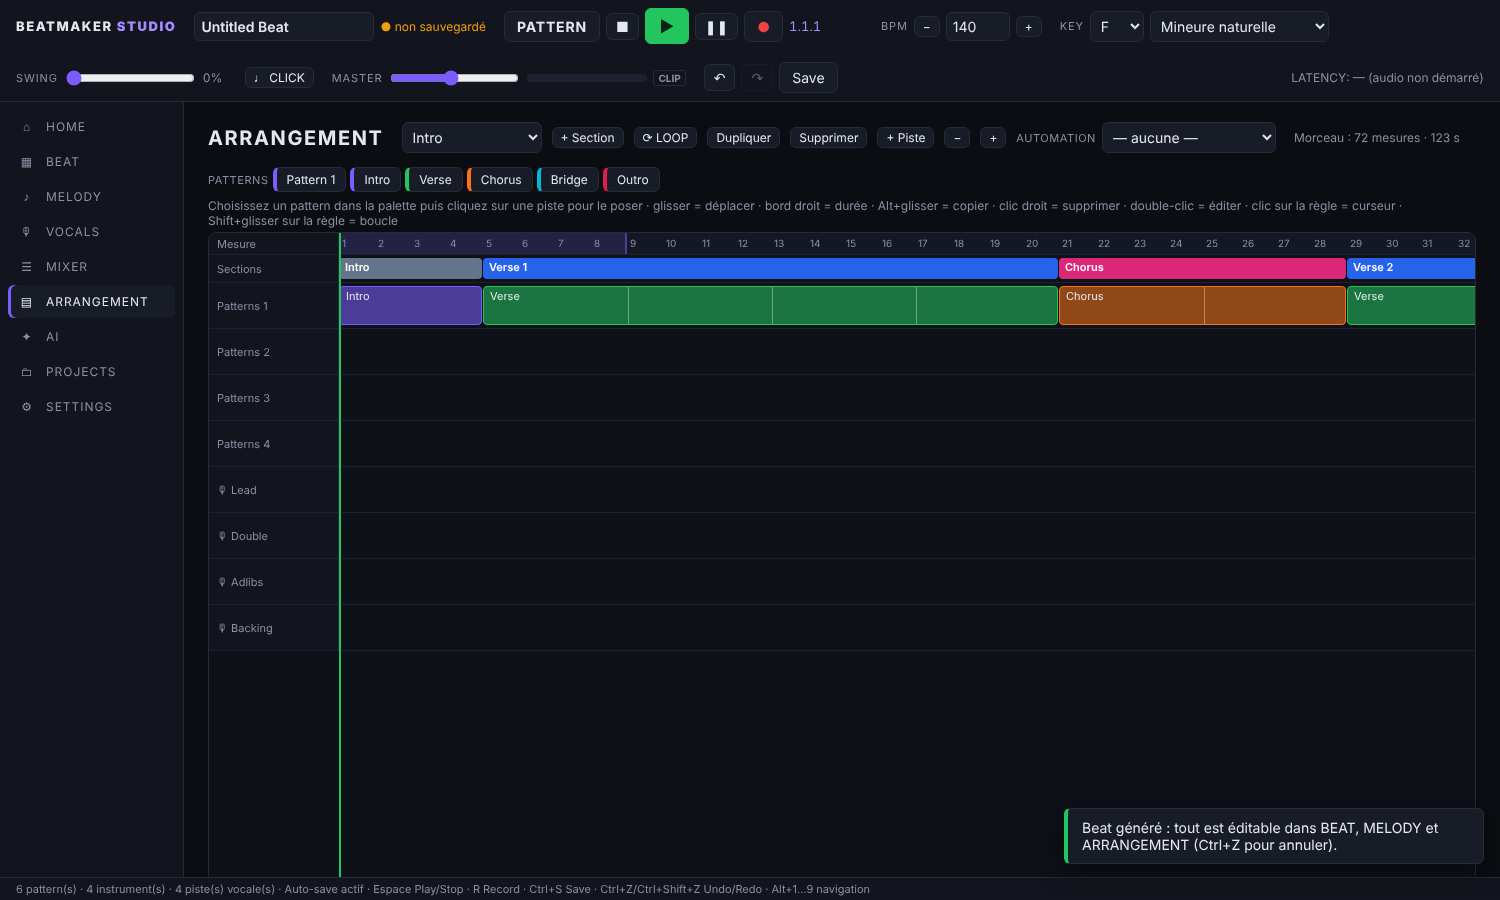
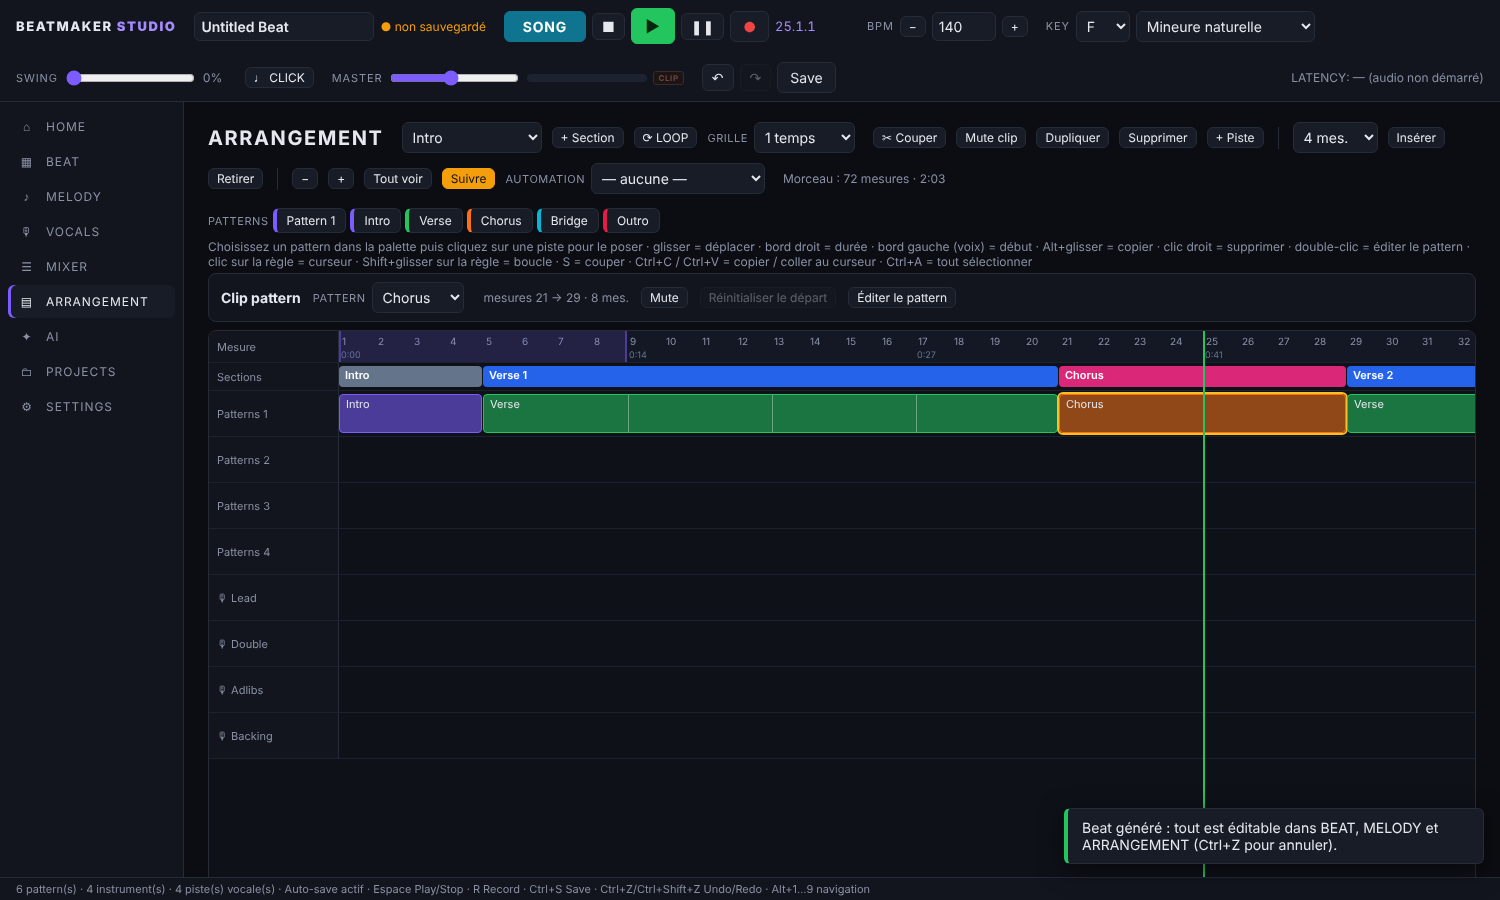
Beat lane tools (shift, copy/paste, reverse), export of the loop region, taller arrangement ruler with time; README/ARCHITECTURE updated, new screenshots
Claude-Session: https://claude.ai/code/session_014n7ftZ7mndBTveENmhuGmo

diff --git a/src/ui/views/beat.ts b/src/ui/views/beat.ts
@@ -3,9 +3,9 @@ import { GENRE_DEFAULTS, type Genre } from "../../core/ai/prompt.ts";
 import { instrumentDef, PITCH_RANGE, STEP_COUNTS, STEPS_PER_BEAT } from "../../core/constants.ts";
 import { currentPattern, getChannel } from "../../core/project.ts";
 import type { Action } from "../../core/reducer.ts";
-import type { Project, StepCount, Track } from "../../core/types.ts";
+import type { Project, Step, StepCount, Track } from "../../core/types.ts";
 import type { App, View } from "../app.ts";
-import { confirmDialog, h } from "../dom.ts";
+import { confirmDialog, h, toast } from "../dom.ts";
 import { patternBar } from "./patternBar.ts";
 import { DEFAULT_SAMPLE_EDIT } from "../../core/project.ts";
 import { drawWaveform, fmtDb, reactive, slider } from "../widgets.ts";
@@ -42,6 +42,44 @@ export function createBeatView(app: App): View {
     app.dispatch({ type: "batch", actions });
   };
 
+  let laneClipboard: Step[] | null = null;
+  const selTrack = (): Track | null => {
+    const p = store.getState();
+    const t = p.tracks.find((x) => x.id === app.selectedTrackId);
+    if (!t) toast("Sélectionnez d'abord une piste (clic sur son nom).", "error");
+    return t ?? null;
+  };
+  const laneSteps = (t: Track) => currentPattern(store.getState()).drums[t.id] ?? [];
+  const shiftLane = (d: number) => {
+    const t = selTrack();
+    if (!t) return;
+    const st = laneSteps(t);
+    const n = st.length;
+    app.dispatch({ type: "setDrumSteps", trackId: t.id, steps: st.map((_, i) => ({ ...st[(i - d + n) % n] })) }, `shift:${t.id}`);
+  };
+  const selName = h("span", { class: "hint" });
+  const laneTools = h("div", { class: "toolbar lane-tools" },
+    h("span", { class: "slider-label" }, "PISTE"), selName,
+    h("button", { class: "btn btn-sm", title: "Décaler la piste d'un step vers la gauche (rotation)", onclick: () => shiftLane(-1) }, "◀ Décaler"),
+    h("button", { class: "btn btn-sm", title: "Décaler la piste d'un step vers la droite (rotation)", onclick: () => shiftLane(1) }, "Décaler ▶"),
+    h("button", { class: "btn btn-sm", title: "Copier les steps de la piste", onclick: () => {
+      const t = selTrack();
+      if (!t) return;
+      laneClipboard = laneSteps(t).map((x) => ({ ...x }));
+      toast(`Piste « ${t.name} » copiée — collez-la sur une autre piste ou un autre pattern.`, "info");
+    } }, "Copier"),
+    h("button", { class: "btn btn-sm", title: "Coller les steps copiés sur la piste sélectionnée", onclick: () => {
+      const t = selTrack();
+      if (!t || !laneClipboard) return;
+      const n = currentPattern(store.getState()).stepCount;
+      app.dispatch({ type: "setDrumSteps", trackId: t.id, steps: Array.from({ length: n }, (_, i) => ({ ...laneClipboard![i % laneClipboard!.length] })) });
+    } }, "Coller"),
+    h("button", { class: "btn btn-sm", title: "Inverser la piste (de la fin vers le début)", onclick: () => {
+      const t = selTrack();
+      if (t) app.dispatch({ type: "setDrumSteps", trackId: t.id, steps: laneSteps(t).slice().reverse().map((x) => ({ ...x })) });
+    } }, "Inverser"),
+  );
+
   const toolbar = h("div", { class: "toolbar" },
     h("h1", {}, "BEAT"),
     stepsSelect,
@@ -59,7 +97,7 @@ export function createBeatView(app: App): View {
   const pbar = patternBar(app);
   const grid = h("div", { class: "grid", role: "grid", "aria-label": "Step sequencer" });
   const editor = h("div", { class: "card sample-editor" });
-  const el = h("section", { class: "view beat-view" }, toolbar, pbar.el, help, h("div", { class: "grid-scroll" }, grid), editor);
+  const el = h("section", { class: "view beat-view" }, toolbar, pbar.el, laneTools, help, h("div", { class: "grid-scroll" }, grid), editor);
 
   /** SAMPLER panel for the selected drum lane: trim, reverse, fades, gain, loop (non-destructive). */
   function renderEditor(): void {
@@ -183,6 +221,7 @@ export function createBeatView(app: App): View {
     const pat = currentPattern(p);
     pbar.update(p);
     const sel = p.tracks.find((x) => x.id === app.selectedTrackId);
+    selName.textContent = sel ? `« ${sel.name} »` : "(cliquez sur un nom de piste)";
     const es = sel ? `${sel.id}|${sel.sampleId}|${sel.pitch}|${JSON.stringify(sel.sampleEdit ?? null)}|${engine.isReady}` : "";
     if (es !== editorSig) {
       editorSig = es;

diff --git a/src/ui/views/projects.ts b/src/ui/views/projects.ts
@@ -14,6 +14,7 @@ export function createProjectsView(app: App): View {
   const format = h("select", { "aria-label": "Format" }, h("option", { value: "wav" }, "WAV"), h("option", { value: "mp3" }, "MP3"));
   const bits = h("select", { "aria-label": "Résolution WAV" }, h("option", { value: "16" }, "16-bit"), h("option", { value: "24", selected: true }, "24-bit"), h("option", { value: "32" }, "32-bit float"));
   const rate = h("select", { "aria-label": "Fréquence" }, h("option", { value: "44100" }, "44.1 kHz"), h("option", { value: "48000" }, "48 kHz"));
+  const range = h("select", { "aria-label": "Étendue" }, h("option", { value: "all" }, "Morceau complet"), h("option", { value: "loop" }, "Région de boucle (ARRANGEMENT)"));
   const kbps = h("select", { "aria-label": "Débit MP3" }, ...[320, 256, 192, 128].map((k) => h("option", { value: k }, `${k} kbps`)));
   const mp3Note = h("span", { class: "hint" });
   void mp3Available().then((ok) => {
@@ -35,8 +36,11 @@ export function createProjectsView(app: App): View {
       h("button", { class: "btn", onclick: () => void app.openProject() }, "Ouvrir… (Ctrl+O)"),
       h("button", { class: "btn", onclick: () => void app.newProject("empty") }, "Nouveau projet vide")),
     h("div", { class: "card" }, h("h3", {}, "EXPORT"),
-      h("div", { class: "row-inline" }, variant, format, bits, rate, kbps,
-        h("button", { class: "btn btn-primary", onclick: () => void app.exportAudio({ variant: variant.value as ExportVariant, format: format.value as ExportFormat, bitDepth: Number(bits.value) as WavBitDepth, sampleRate: Number(rate.value) as 44100 | 48000, mp3Kbps: Number(kbps.value) as 320 }) }, "⤓ Exporter")),
+      h("div", { class: "row-inline" }, variant, format, bits, rate, kbps, range,
+        h("button", { class: "btn btn-primary", onclick: () => {
+          const lp = app.store.getState().arrangement.loop;
+          void app.exportAudio({ variant: variant.value as ExportVariant, format: format.value as ExportFormat, bitDepth: Number(bits.value) as WavBitDepth, sampleRate: Number(rate.value) as 44100 | 48000, mp3Kbps: Number(kbps.value) as 320, range: range.value === "loop" ? [lp.start, lp.end] : undefined });
+        } }, "⤓ Exporter")),
       mp3Note,
       h("p", { class: "hint" }, "Le rendu passe par exactement le même moteur que la lecture (instruments, effets, mixer, master). Sans arrangement, le pattern courant est exporté 4 fois en boucle."),
       lastExport),

diff --git a/src/styles.css b/src/styles.css
@@ -298,7 +298,7 @@ table.comp { border-collapse: collapse; width: 100%; } table.comp td, table.comp
 .tl-clip.muted, .tl-aclip.muted { opacity: 0.4; filter: grayscale(0.7); }
 .tl-fades { position: absolute; inset: 0; pointer-events: none; }
 .tl-fades polygon { fill: rgba(0, 0, 0, 0.45); stroke: #fbbf24; stroke-width: 1; }
-.tl-time { position: absolute; top: 11px; font-size: 9px; color: #64748b; pointer-events: none; }
+.tl-time { position: absolute; top: 18px; font-size: 9px; color: #64748b; pointer-events: none; }
 .tl-inspector .card { margin: 4px 0 8px; padding: 8px 12px; gap: 12px; flex-wrap: wrap; }
 .tl-inspector .slider-row, .tl-inspector .slider { min-width: 220px; }
 .tl-auto-help { position: absolute; right: 80px; top: 4px; font-size: 10px; pointer-events: none; }
@@ -325,3 +325,4 @@ table.comp { border-collapse: collapse; width: 100%; } table.comp td, table.comp
 .clips-table td.row-inline { gap: 4px; }
 textarea.lyrics { width: 100%; box-sizing: border-box; background: #0f121a; color: var(--text); border: 1px solid var(--line); border-radius: 6px; padding: 8px; font: 14px/1.5 inherit; resize: vertical; }
 .presets { flex-wrap: wrap; row-gap: 6px; }
+.lane-tools { padding: 2px 0; gap: 6px; }

diff --git a/src/audio/export.ts b/src/audio/export.ts
@@ -20,6 +20,8 @@ export interface ExportOptions {
   bitDepth: WavBitDepth;
   sampleRate: 44100 | 48000;
   mp3Kbps?: 128 | 192 | 256 | 320;
+  /** Bars [start, end) to export (song mode only); default = the whole song. */
+  range?: [number, number];
   onProgress?: (label: string, fraction: number) => void;
 }
 
@@ -117,7 +119,7 @@ export async function exportProject(p: Project, media: RenderMedia, o: ExportOpt
   const render = async (muted: Set<string> | undefined, label: string) => {
     // No arrangement yet: export the current pattern looped 4 times.
     const song = songEndStep(p) > 0;
-    const buf = await renderProject(p, media, { mode: song ? "song" : "pattern", loops: 4, sampleRate: o.sampleRate, muted, tail: 4, onProgress: (f) => o.onProgress?.(label, f) });
+    const buf = await renderProject(p, media, { mode: song ? "song" : "pattern", loops: 4, sampleRate: o.sampleRate, muted, tail: 4, range: song ? o.range : undefined, onProgress: (f) => o.onProgress?.(label, f) });
     return trimTail(bufferChannels(buf), o.sampleRate);
   };
   if (o.variant !== "stems") {

diff --git a/src/ui/views/arrangement.ts b/src/ui/views/arrangement.ts
@@ -320,7 +320,7 @@ export function createArrangementView(app: App): View {
     }
 
     // ruler (bars + time every 4 bars)
-    const ruler = h("div", { class: "tl-row tl-ruler", style: `height:22px` }, h("div", { class: "tl-head" }, "Mesure"));
+    const ruler = h("div", { class: "tl-row tl-ruler", style: `height:32px` }, h("div", { class: "tl-head" }, "Mesure"));
     for (let b = 0; b < bars; b++) {
       if (barW >= 18 || b % 4 === 0) ruler.append(h("span", { class: "tl-bar-num", style: `left:${HEAD_W + b * barW}px` }, String(b + 1)));
       if (b % 8 === 0 && barW >= 14) {

diff --git a/README.md b/README.md
@@ -9,21 +9,22 @@ Logiciel de production musicale pour le rap, la trap, la drill, l'afrobeat et le
 | Étape | Où | Ce qui se passe réellement |
 |---|---|---|
 | Projet, BPM, tonalité | Barre du haut | BPM 40–220, KEY + SCALE (12 gammes), swing, métronome |
-| Drums | **BEAT** | Step sequencer : 7 pistes (Kick, Snare, Clap, Closed Hat, Open Hat, Perc, 808), 16/32/64 steps, vélocité, rolls ×2/×3/×4, mute/solo, humaniser, quantifier, plusieurs patterns, générateur de drums IA |
+| Drums | **BEAT** | Step sequencer : 7 pistes (Kick, Snare, Clap, Closed Hat, Open Hat, Perc, 808), 16/32/64 steps, vélocité, rolls ×2/×3/×4, mute/solo, volume/pan/pitch par piste, humaniser, quantifier, décaler / copier / coller / inverser une piste, plusieurs patterns, générateur de drums IA |
 | Sons | **BEAT → SAMPLER** | Kit intégré synthétisé, import WAV/MP3/AIFF/OGG/FLAC, découpe, reverse, fondus, gain, pitch, boucle |
-| Mélodies | **MELODY** | Piano roll (création, déplacement, durée, suppression, sélection multiple, copier/coller, dupliquer, quantifier, snap, zoom, vélocité), SCALE LOCK, 9 instruments audibles : piano, e-piano, synth lead, pad, strings, pluck, bells, synth bass, 808 |
+| Mélodies | **MELODY** | Piano roll (création, déplacement, durée, suppression, sélection multiple, copier/coller, dupliquer, quantifier, snap, zoom, vélocité), SCALE LOCK, dessin d'accords (triade, 7e, 9e, sus, power, octave), transposition par degré de gamme ou octave, humaniser, legato, strum, inverser, rampes de vélocité, arpégiateur (up/down/up-down/random) |
+| Sons | **MELODY → Bibliothèque** | 9 moteurs (piano, e-piano, synth, pad, strings, pluck, bells, synth bass, 808) et 36 sons prêts (Dark Piano, R&B Rhodes, Mono Glide Lead, Choir Pad, Drill Strings, Kalimba, Reese Bass, 808 Distorted, 808 Drill…). Synthé : forme d'onde, unison 1–7 voix, octave, MONO/legato avec glide, drive, LFO vibrato et wobble du filtre, ADSR, filtre |
 | 808 | **MELODY → 808** | 808 monophonique : pitch, glide/slide (touche L), punch, ADSR, saturation, distorsion, EQ, compression, calée sur le BPM |
-| Arrangement | **ARRANGEMENT** | Timeline : sections (Intro, Verse, Pre-Chorus, Chorus, Bridge, Outro, personnalisées), clips déplaçables, redimensionnables, copiables (Alt) et supprimables, clips vocaux avec forme d'onde, boucle, automation de volume, la lecture suit la timeline |
-| Voix | **VOCALS** | Micro USB ou interface, choix micro/casque, monitoring à travers la chaîne temps réel, REC/STOP/PAUSE/PLAY, métronome, count-in, punch in/out, prises multiples sur 4 pistes (Lead, Double, Adlibs, Backing) + pistes libres, compensation de latence |
-| Chaîne vocale | **VOCALS** | Noise Reduction → Gate → EQ → De-Esser → Compressor → AUTO PITCH → AUTO LEVEL → Saturation → Limiter → Reverb/Delay |
+| Arrangement | **ARRANGEMENT** | Timeline : sections (Intro, Verse, Pre-Chorus, Chorus, Bridge, Outro, personnalisées), clips déplaçables, redimensionnables, copiables (Alt), découpables au curseur (S), mutables, copier/coller au curseur, grille (mesure → 1/16), insérer / retirer des mesures (tout est décalé, y compris voix et automation), pistes renommables, inspecteur de clip (pattern, départ, gain, fades, normaliser), clips vocaux avec forme d'onde et fades, boucle, automation de volume et de pan, vue qui suit la lecture, règle en mesures et minutes |
+| Voix | **VOCALS** | Micro USB ou interface, choix micro/casque, monitoring à travers la chaîne temps réel, REC/STOP/PAUSE/PLAY, métronome, count-in, punch in/out, prises multiples sur 4 pistes (Lead, Double, Adlibs, Backing) + pistes libres, compensation de latence, alerte saturation / niveau trop faible, liste des clips (gain, fades, mute, couper), paroles par piste enregistrées dans le projet |
+| Chaîne vocale | **VOCALS** | Noise Reduction → Gate → EQ → De-Esser → Compressor → AUTO PITCH → AUTO LEVEL → Saturation → Limiter → Reverb/Delay. 7 presets de chaîne : Rap Lead, Melodic/Autotune, Hard Tune, Drill, Adlibs, Doubles/Backing, R&B Smooth (Alt+clic = écouter avant d'appliquer) |
 | Correction | **AUTO PITCH** | LIVE (temps réel) et STUDIO (PSOLA, préserve les formants). Key/Scale, Correction, Retune Speed, Humanize, Formant. Presets Natural, Soft, Rap, Melodic, Modern, Hard Tune, Robot |
 | Nettoyage | **AI VOICE CLEAN** | OFF/LOW/MEDIUM/HIGH, bascule RAW/PROCESSED |
 | Cohérence | **VOICE CONSISTENCY / AUTO LEVEL** | Gain automatique, et niveau des clips aligné en LUFS |
 | Analyse vocale | **✨ AUTO VOICE** | Analyse bruit, dynamique, spectre, sibilance, pitch et clipping, puis propose une chaîne : écouter, appliquer ou désactiver |
 | Prises | **AI TAKE COMP** | Note chaque mesure de chaque prise. Vous acceptez ou changez chaque choix |
-| Mix | **MIXER** | Volume, pan, mute, solo et meters par piste. DRUM, MUSIC et VOCAL BUS, envois REVERB/DELAY, MASTER. Effets : EQ, compresseur, limiteur, reverb, delay, saturation, distorsion, de-esser, gate… |
-| IA | **AI** | Générateur de beat à partir d'un texte, mélodies (4 options), drums, assistant de composition, AI MIX ASSISTANT (PREVIEW puis APPLY), AI MASTER (mesure LUFS et true peak, ne clippe jamais) |
-| Export | **PROJECTS** | WAV 16/24/32-bit float, MP3. Variantes : Master, Instrumental, Vocals, Stems (.zip) |
+| Mix | **MIXER** | Tranches groupées (DRUMS / MUSIC / VOCALS / BUS & FX) et MASTER épinglé. Volume, pan, mute, solo, vu-mètres avec pic mémorisé et voyant CLIP, routage de chaque piste vers n'importe quel bus, renommage. Envois REVERB/DELAY. 13 effets (EQ, compresseur, limiteur, reverb, delay, saturation, distorsion, de-esser, gate, débruitage, AUTO PITCH, AUTO LEVEL, Stereo Width) avec presets, copier/coller de chaîne entre pistes |
+| IA | **AI** | Générateur de beat à partir d'un texte, mélodies (4 options), CHORDS (progressions par humeur, tenus / stabs / arpège), 808 / BASS (calée sur le kick, slides), drums, VARIATIONS de pattern (fill, hi-hat rolls, half-time, épuré, chargé, drop-out), STRUCTURE (arrangement complet à partir de vos patterns, 5 modèles), assistant de composition, AI MIX ASSISTANT (PREVIEW puis APPLY), AI MASTER (mesure LUFS et true peak, ne clippe jamais) |
+| Export | **PROJECTS** | WAV 16/24/32-bit float, MP3, 44.1 / 48 kHz. Variantes : Master, Instrumental, Vocals, Stems (.zip). Morceau complet ou région de boucle |
 | Projet | **PROJECTS** | `.bsproj` (ZIP : JSON + audio), Ctrl+S, sauvegarde automatique, « Recover previous session? » |
 | MIDI | Partout | Clavier vers l'instrument sélectionné, pads (canal 10) vers les drums, REC MIDI, MIDI LEARN, MIDI Out |
 
@@ -32,7 +33,7 @@ L'IA tourne **hors ligne, sur votre machine**. Elle produit des patterns, des no
 | | |
 |---|---|
 | ![Melody](docs/screenshot-melody.png) | ![Mixer](docs/screenshot-mixer.png) |
-| ![Vocals](docs/screenshot-vocals.png) | ![AI](docs/screenshot-ai.png) |
+| ![Vocals](docs/screenshot-vocals.png) | ![AI](docs/screenshot-ai-tools.png) |
 
 ## Installation (Windows)
 
@@ -59,20 +60,22 @@ Espace = Play/Stop · R = Record · Entrée = début · Ctrl+S = Save · Ctrl+O 
 
 Dans le piano roll : Suppr · Ctrl+C/V/D/A · ↑↓ (Shift = octave) · ←→ · L = slide 808.
 
+Dans l'arrangement : S = couper au curseur · Ctrl+C / Ctrl+V = copier / coller au curseur · Ctrl+D = dupliquer · Ctrl+A = tout sélectionner · Suppr.
+
 ## Tests
 
 | Commande | Contenu | Résultat |
 |---|---|---|
 | `npm run typecheck` | TypeScript strict sur tout `src/` | ✅ |
-| `npm test` | 91 tests unitaires (Node) | ✅ 91/91 |
-| `npm run test:browser` | 8 tests du moteur audio dans Chromium | ✅ 8/8 |
-| `npm run test:e2e` | 20 étapes pilotant l'interface comme un utilisateur | ✅ 20/20 |
+| `npm test` | 108 tests unitaires (Node) | ✅ 108/108 |
+| `npm run test:browser` | 12 tests du moteur audio dans Chromium | ✅ 12/12 |
+| `npm run test:e2e` | 26 étapes pilotant l'interface comme un utilisateur | ✅ 26/26 |
 
-Détail des tests unitaires : DSP (YIN à ±5 cents, LUFS BS.1770 exact à ±0,05, true peak, compresseur, limiteur, gate, de-esser, leveler, pitch live et studio, débruitage), reducer, format de projet v1/v2, WAV, ZIP, générateurs et assistants IA, take comp.
+Détail des tests unitaires : DSP (YIN à ±5 cents, LUFS BS.1770 exact à ±0,05, true peak, compresseur, limiteur, gate, de-esser, leveler, pitch live et studio, débruitage), reducer, format de projet v1/v2, WAV, ZIP, générateurs et assistants IA, take comp, outils de notes (accords dans la gamme, arpégiateur, transposition…), découpe / insertion / suppression de mesures dans l'arrangement, routage du mixer, presets d'effets et de chaînes vocales, variations de drums, structures de morceau.
 
-Détail des tests moteur : timing au sample près, swing, rolls, justesse de chaque instrument, glide de la 808, effets et routing, mode song et clips vocaux, marge des templates, temps réel.
+Détail des tests moteur : timing au sample près, swing, rolls, justesse de chaque instrument et des 36 sons de la bibliothèque, glide de la 808 et du synthé mono, Stereo Width, effets et routing (une piste suit le bus vers lequel elle est routée), mode song et clips vocaux, clip découpé qui rejoue la bonne partie du pattern, clip muté silencieux, fade-in de clip, marge des templates, temps réel.
 
-Le test de bout en bout suit le scénario complet : nouveau projet → 140 BPM → F minor → drums → sampler → mélodie → 808 → arrangement IA → micro → monitoring traité → 2 prises → pitch LIVE et STUDIO (vérifié par mesure de pitch) → nettoyage (bruit −6 dB ou plus) → AUTO VOICE → take comp → mixer → assistant → AI MIX → AI MASTER (true peak ≤ −1 dBTP) → export WAV et stems → sauvegarde → réouverture → crash recovery avec l'audio → MIDI.
+Le test de bout en bout suit le scénario complet : nouveau projet → 140 BPM → F minor → drums → outils de piste → sampler → mélodie → 808 → arrangement IA → bibliothèque de sons, accords, arpège → découpe / mute / insertion de mesures → micro → monitoring traité → 2 prises → pitch LIVE et STUDIO (vérifié par mesure de pitch) → nettoyage (bruit −6 dB ou plus) → AUTO VOICE → take comp → presets de chaîne vocale et paroles → mixer (routage, presets, renommage) → assistant → AI MIX → CHORDS, 808, VARIATIONS, STRUCTURE → AI MASTER (true peak ≤ −1 dBTP) → export WAV, stems et région de boucle → sauvegarde → réouverture → crash recovery avec l'audio → MIDI.
 
 Ce test utilise un micro factice de Chromium (une « voix » légèrement fausse) et un clavier MIDI simulé.
 
@@ -100,4 +103,4 @@ docs/ARCHITECTURE.md
 - **CPU** : la charge DSP des effets est affichée partout. Le CPU des processus ne s'affiche que dans l'application desktop.
 - **Time-stretch** des samples : non disponible. Le pitch change la durée, comme sur un sampler classique.
 - **AI MASTER** : il mesure sur la partie la plus forte du morceau (autour du refrain). L'export affiche le loudness intégré du morceau complet.
-- **Automation** : volume par piste ou bus (le pan est déjà géré par le moteur, pas encore dans l'interface).
+- **Automation** : volume et pan (pas encore les paramètres d'effets).

diff --git a/docs/ARCHITECTURE.md b/docs/ARCHITECTURE.md
@@ -52,17 +52,34 @@
 - **Mixer**: `source → input → inserts → pan → fader → meter`, then the bus (DRUM / MUSIC /
   VOCAL), REVERB and DELAY returns, and MASTER → soft-clipper (0 latency, ceiling −0.18 dBFS).
 - **Effects**: EQ, saturation, distortion, reverb (generated IR) and delay (tempo-synced,
-  ping-pong) use native nodes. Compressor, gate, de-esser, limiter, leveler, denoise and
+  ping-pong) and Stereo Width (mid/side gain matrix) use native nodes. Compressor, gate, de-esser, limiter, leveler, denoise and
   AUTO PITCH run as AudioWorklets (`bs-insert`). None of them has look-ahead, hence **no
   added latency** (except AUTO PITCH while it corrects, ≈10 ms). Fast path: silent input is
   not processed. Dynamics are computed at control rate (every 8 samples, interpolated).
 - **Instruments**: piano (additive, inharmonicity), pluck (Karplus-Strong), e-piano and bells
-  (FM), synth/pad/strings/bass (detuned oscillators + filter envelope), monophonic 808 (glide,
+  (FM), synth/pad/strings/bass (1–7 unison oscillators of any waveform + filter envelope, LFO
+  vibrato / filter wobble, optional mono legato with glide, drive stage per instrument), monophonic 808 (glide,
   punch, saturation, distortion, EQ, compression; the compressor's 6 ms look-ahead is
   compensated by early scheduling).
 - **Recording**: `getUserMedia` (with echo cancellation, noise suppression and AGC disabled)
   feeds the `bs-recorder` worklet, which captures timestamped frames. The take is aligned on
   the exact audio frame of the start step, plus the output and input latency compensation.
+
+## Editing model (v3 additions)
+
+- **Pattern clips** carry an optional `offset` (bars into the pattern) and `muted` flag. Splitting a
+  clip at the cursor gives two clips; the right one gets an offset so it keeps playing the right
+  part of the pattern. The sequencer computes the local step as `(pos − start + offset·spb) mod stepCount`.
+- **Audio clips** carry `fadeIn` / `fadeOut` (seconds) and `muted`. The gain envelope is scheduled
+  per clip (min 5 ms ramps) and handles playback that starts in the middle of a clip.
+- **Insert / delete bars** (`insertBars`) shifts or crops pattern clips, sections, the loop region,
+  vocal clips (with take offsets) and automation points in one undoable step.
+- **Routing**: each track channel has an `output` (any bus or the master). The mixer reconnects live.
+- **Note tools** (`src/core/noteTools.ts`): diatonic chords, scale-degree transpose, humanize,
+  legato, strum, reverse, velocity ramps, arpeggiator — pure functions, unit-tested.
+- **Libraries**: `soundLibrary.ts` (36 instrument sounds = preset + overrides) and
+  `effectPresets.ts` (per-effect presets + 7 complete vocal chains, which reuse existing effect ids
+  so live audio nodes are updated rather than rebuilt).
 
 ## Vocal DSP
 
@@ -91,6 +108,12 @@
 - **AI MASTER**: EQ, glue compression, light saturation, limiter (ceiling −1 dBTP). The gain
   is computed for the target, checked on a real render and corrected; the true peak is checked.
 - **Take comp**: per-bar scoring (presence, clipping, SNR, pitch stability, level consistency).
+- **CHORDS / 808 / BASS**: mood progressions (scale degrees, voice-led chords) and a bass line on the
+  chord roots locked to the kick (or sustained / syncopated), with slides.
+- **VARIATIONS** (`ai/variation.ts`): fill, hi-hat rolls, half-time, sparse, busy and drop-out,
+  produced as a new pattern so the original stays intact.
+- **STRUCTURE** (`ai/structure.ts`): 5 song templates mapped onto the user's existing patterns,
+  by name (Intro / Couplet / Refrain / Hook…) or, failing that, by pattern energy.
 
 ## Project format `.bsproj` (v2)
 
